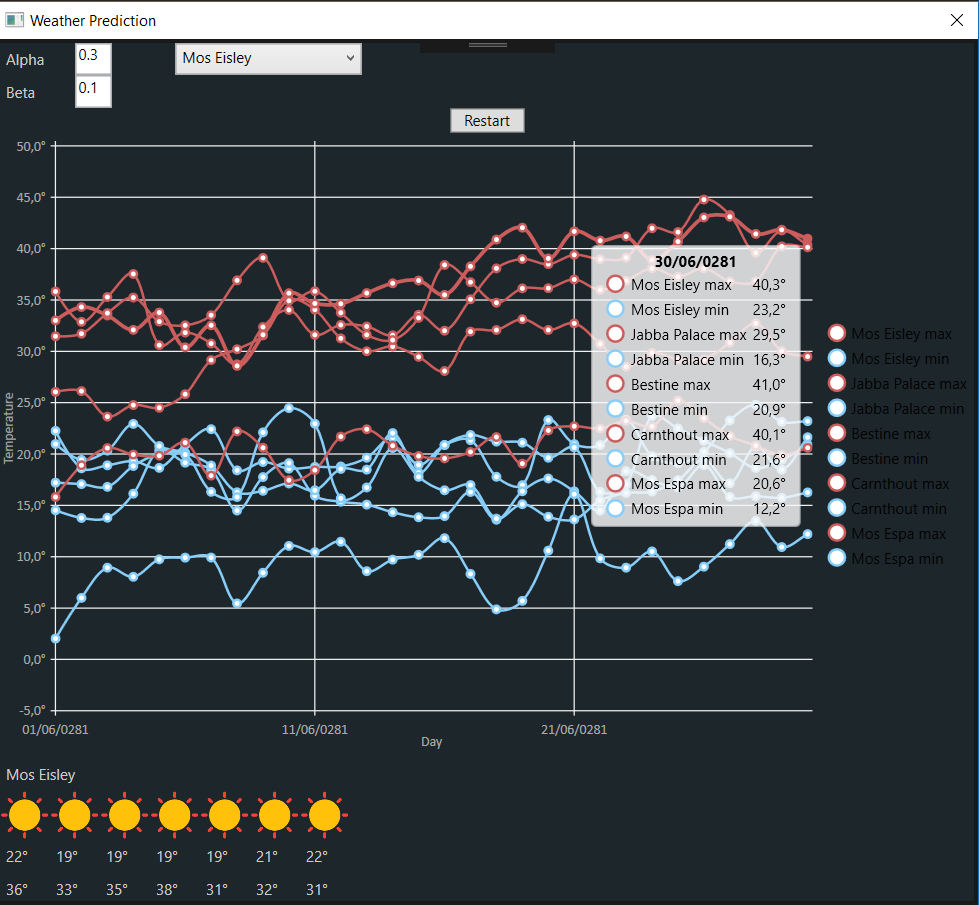
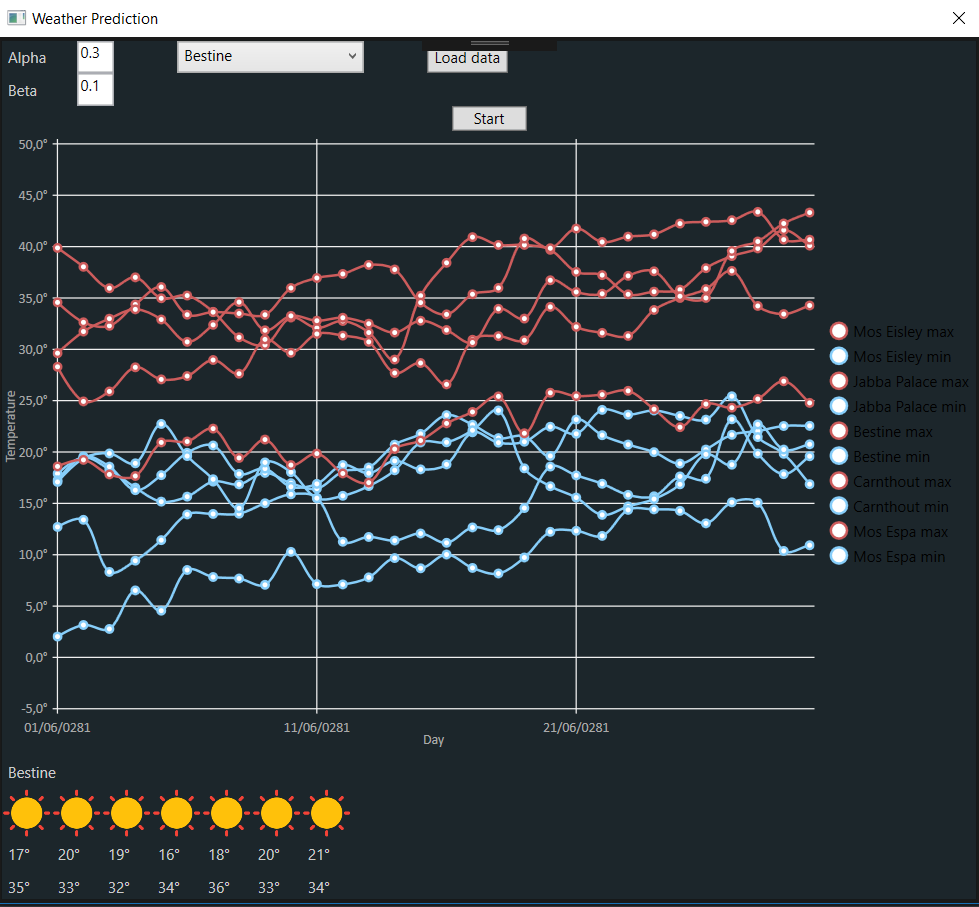
ReadMe

Changed region(s): [[0.0, 0.0309, 1.0, 1.0], [0.0, 0.0, 0.3984, 0.1238], [0.9499, 0.0, 1.0, 0.0619]]

diff --git a/WeatherViewer/MainWindow.xaml b/WeatherViewer/MainWindow.xaml
@@ -13,12 +13,13 @@
 				<Label Content="Alpha" Width="60" Style="{StaticResource StyleLabel}"/>
 				<TextBox Name="tbAlpha" Text="0.3" Width="30" TextChanged="TbAlpha_TextChanged"/>
 				<ComboBox Name="lbCities" Margin="50 0 0 0" Width="150" SelectionChanged="LbCities_SelectionChanged"/>
+				<Button Name="btnLoad" Margin="50 0 0 0" Width="65" Content="Load data" Click="BtnLoad_Click"/>
 			</StackPanel>
 			<StackPanel Orientation="Horizontal">
 				<Label Content="Beta" Width="60" Style="{StaticResource StyleLabel}"/>
 				<TextBox Name="tbBeta" Text="0.1" Width="30" TextChanged="TbBeta_TextChanged"/>
 			</StackPanel>
-				<Button Content="Restart" Width="60" Name="btnRestart" Click="BtnRestart_Click" />
+				<Button Content="Start" Width="60" Name="btnRestart" Click="BtnRestart_Click" />
 			<lvc:CartesianChart Series="{Binding SeriesCollection}" LegendLocation="Right" Height="500" >
 				<lvc:CartesianChart.AxisY>
 					<lvc:Axis Title="Temperature" LabelFormatter="{Binding YFormatter}"></lvc:Axis>

diff --git a/WeatherViewer/MainWindow.xaml.cs b/WeatherViewer/MainWindow.xaml.cs
@@ -1,5 +1,6 @@
 using LiveCharts;
 using LiveCharts.Wpf;
+using Microsoft.Win32;
 using System;
 using System.Collections.Generic;
 using System.Globalization;
@@ -27,6 +28,12 @@ namespace WeatherViewer
 
         private Database _database;
         private ForecastGenerator _forecast;
+
+        public SeriesCollection SeriesCollection { get; set; }
+        public string[] Labels { get; set; }
+        public Func<double, string> YFormatter { get; set; }
+
+
 
         private void UpdateChart()
         {
@@ -77,7 +84,6 @@ namespace WeatherViewer
 
         public MainWindow()
         {
-            IgnoreEvent = true;
             InitializeComponent();
 
             img1.Source = new BitmapImage(new Uri(System.IO.Directory.GetCurrentDirectory() + "\\img\\sun.png"));
@@ -90,28 +96,25 @@ namespace WeatherViewer
 
 
             _database = new Database();
-            Loader ld = new Loader(_database);
-            ld.LoadDB();
-            _forecast = new ForecastGenerator(_database, new DateTime(281, 5, 31), 0.3, 0.1);
-            for (int i = 0; i < 30; i++)
-                _forecast.GenerateDay();
+            //Loader ld = new Loader(_database);
+            //ld.LoadDB();
+            //_forecast = new ForecastGenerator(_database, new DateTime(281, 5, 31), 0.3, 0.1);
+            //for (int i = 0; i < 30; i++)
+            //    _forecast.GenerateDay();
 
             SeriesCollection = new SeriesCollection();
-            UpdateChart();
 
-            foreach(City city in _database.Cities)
+        }
+
+        private void UpdateWidgets()
+        {
+            lbCities.Items.Clear();
+            foreach (City city in _database.Cities)
             {
                 lbCities.Items.Add(city);
             }
 
-            IgnoreEvent = false;
         }
-
-        public SeriesCollection SeriesCollection { get; set; }
-        public string[] Labels { get; set; }
-        public Func<double, string> YFormatter { get; set; }
-
-        private bool IgnoreEvent { get; set; }
 
         private void RestartComputation()
         {
@@ -124,19 +127,11 @@ namespace WeatherViewer
 
         private void TbAlpha_TextChanged(object sender, TextChangedEventArgs e)
         {
-            if(!IgnoreEvent)
-            {
-                //RestartComputation();
-            }
             
         }
 
         private void TbBeta_TextChanged(object sender, TextChangedEventArgs e)
         {
-            if(!IgnoreEvent)
-            {
-                //RestartComputation();
-            }
         }
 
         private void BtnRestart_Click(object sender, RoutedEventArgs e)
@@ -147,7 +142,7 @@ namespace WeatherViewer
         private void LbCities_SelectionChanged(object sender, SelectionChangedEventArgs e)
         {
             City city = lbCities.SelectedItem as City;
-            if(city != null)
+            if(city != null && city.Forecast.Count > 6)
             {
                 lbCityName.Content = city.Name;
                 lb1Min.Content = city.Forecast[0].TMin.ToString("0°");
@@ -164,6 +159,18 @@ namespace WeatherViewer
                 lb6Max.Content = city.Forecast[5].TMax.ToString("0°");
                 lb7Min.Content = city.Forecast[6].TMin.ToString("0°");
                 lb7Max.Content = city.Forecast[6].TMax.ToString("0°");
+                
+            }
+        }
+
+        private void BtnLoad_Click(object sender, RoutedEventArgs e)
+        {
+            OpenFileDialog openFileDialog = new OpenFileDialog();
+            if (openFileDialog.ShowDialog() == true)
+            {
+                Loader ld = new Loader(_database);
+                ld.LoadDB(openFileDialog.FileName);
+                UpdateWidgets();
             }
         }
     }

diff --git a/WeatherPrediction/Loader.cs b/WeatherPrediction/Loader.cs
@@ -31,12 +31,13 @@ namespace WeatherPrediction
 
         }
 
-        public void LoadDB()
+        public void LoadDB(string chemin)
         {
+            _database.Cities.Clear();
             string line;
             City city = null;
             // Read the file and display it line by line.  
-            System.IO.StreamReader file = new System.IO.StreamReader("db.txt");
+            System.IO.StreamReader file = new System.IO.StreamReader(chemin);
             while ((line = file.ReadLine()) != null)
             {
 

diff --git a/WeatherPrediction/Program.cs b/WeatherPrediction/Program.cs
@@ -16,16 +16,6 @@ namespace WeatherPrediction
         static void Main(string[] args)
         {
 
-            Database db = new Database();
-            Loader ld = new Loader(db);
-            ld.LoadDB();
-
-
-            ForecastGenerator fg = new ForecastGenerator(db, new DateTime(281,5,31),0.3,0.1);
-            for(int i = 0; i<30;i++)
-                fg.GenerateDay();
-
-            Console.WriteLine(db.ShowForecast());
             System.Console.ReadLine();
 
         }

diff --git a/Readme.md b/Readme.md
@@ -45,8 +45,6 @@ City influence is the ratio of its distance to the station to the sum of all dis
 ![Alt text](img/2.gif)
 
 
-
-
 ## Data
 
 Currently, data used is only seasonal normal temperature for each day, for each city.
@@ -54,6 +52,30 @@ Currently, data used is only seasonal normal temperature for each day, for each 
 City is described by its coordinates.
 
 A report is described by its minimal temperature (TMin), maximal temperature (TMax) and date.
+
+### Data Format
+
+`
+City,City name,X coordinate, Y coordinate
+Date,TMin,TMax
+...
+`
+
+Example
+
+`
+City,Bestine,1174,611
+01/06/0280,18,36
+02/06/0280,18,37
+03/06/0280,18,37
+04/06/0280,18,37
+City,Carnthout,1280,711
+01/06/0280,17,34
+02/06/0280,17,34
+03/06/0280,17,35
+04/06/0280,17,35
+...
+`
 
 ## Example
 
